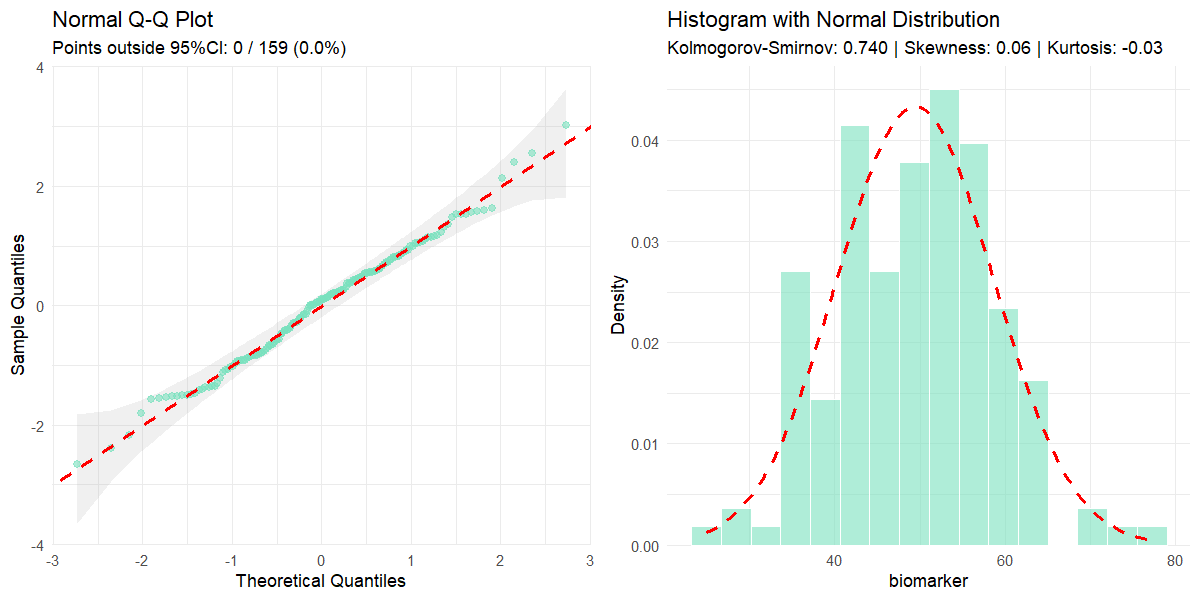
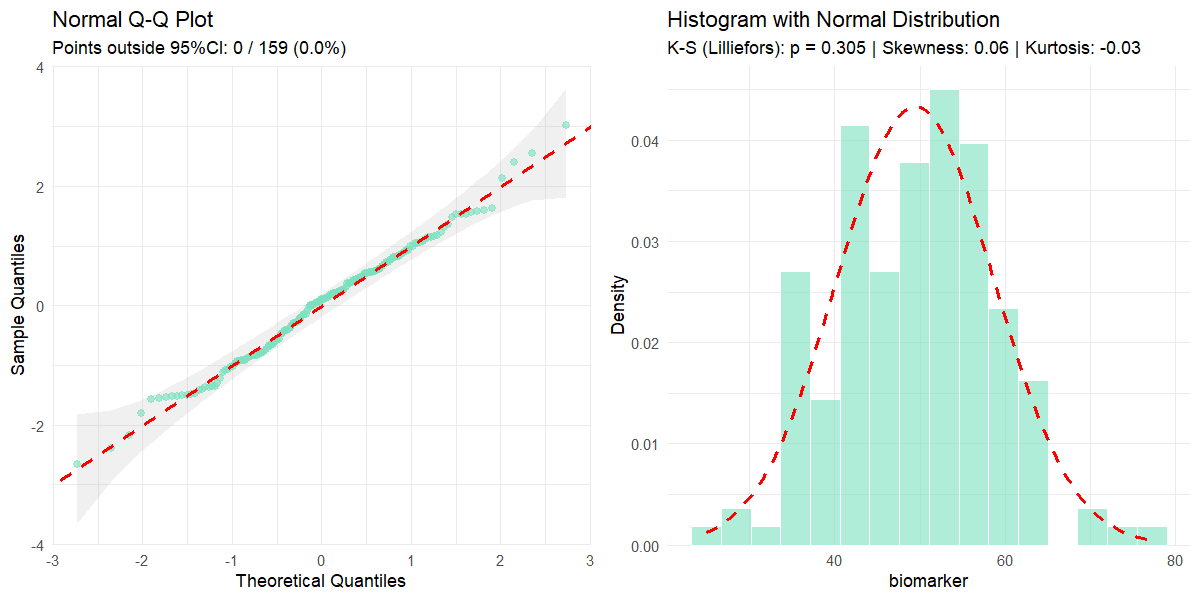
version 1.1.1

Changed region(s): [[0.555, 0.06, 0.9867, 0.09]]

diff --git a/README.md b/README.md
@@ -227,10 +227,11 @@ summary_table(clinical_df,
 ##### Description
 
 Tests normality using sample size-appropriate methods: Shapiro-Wilk test
-(n less than or equal to 50) or Kolmogorov-Smirnov test (n greater than
-50) with Q-Q plots and histograms. Evaluates skewness and kurtosis using
-z-score criteria based on sample size. Automatically detects outliers
-and provides comprehensive visual and statistical assessment.
+(n less than or equal to 50) or Kolmogorov-Smirnov test with Lilliefors’
+correction (n greater than 50) with Q-Q plots and histograms. Evaluates
+skewness and kurtosis using z-score criteria based on sample size.
+Automatically detects outliers and provides comprehensive visual and
+statistical assessment.
 
 ##### Parameters
 
@@ -256,7 +257,7 @@ normality(data = clinical_df_treat, "biomarker")
 #> mean (SD) = 49.44 (9.2) 
 #> median (IQR) = 50.38 (13.1) 
 #> 
-#> Kolmogorov-Smirnov: D = 0.054, p = 0.740 
+#> Kolmogorov-Smirnov (Lilliefors): D = 0.054, p = 0.305 
 #> Shapiro-Wilk: W = 0.992, p = 0.546 
 #> Skewness: 0.06 (z = 0.30) 
 #> Kurtosis: -0.03 (z = -0.08) 
@@ -278,8 +279,8 @@ normality(data = clinical_df_treat, "weight", all = TRUE)
 #> mean (SD) = 72.56 (12.9) 
 #> median (IQR) = 69.20 (21.1) 
 #> 
-#> Kolmogorov-Smirnov: D = 0.125, p = 0.014 
-#> Shapiro-Wilk: W = 0.951, p = < 0.001 
+#> Kolmogorov-Smirnov (Lilliefors): D = 0.125, p < 0.001 
+#> Shapiro-Wilk: W = 0.951, p < 0.001 
 #> Skewness: 0.28 (z = 1.45) 
 #> Kurtosis: -1.09 (z = -2.85) 
 #> 
@@ -411,7 +412,7 @@ outliers(clinical_df_full, "biomarker", threshold = 1.0)
 
 Calculates the sample size needed in a clinical trial based on study
 design and statistical parameters using standard formulas for hypothesis
-testing (Chow, S. 2008).
+testing (Chow, S. 2017).
 
 ##### Parameters
 

diff --git a/NEWS.md b/NEWS.md
@@ -1,3 +1,11 @@
+# biostats 1.1.1
+
+## Improvements
+
+* Minor change to sample_size function for better readability. 
+
+---
+
 # biostats 1.1.0
 
 ## New Features
